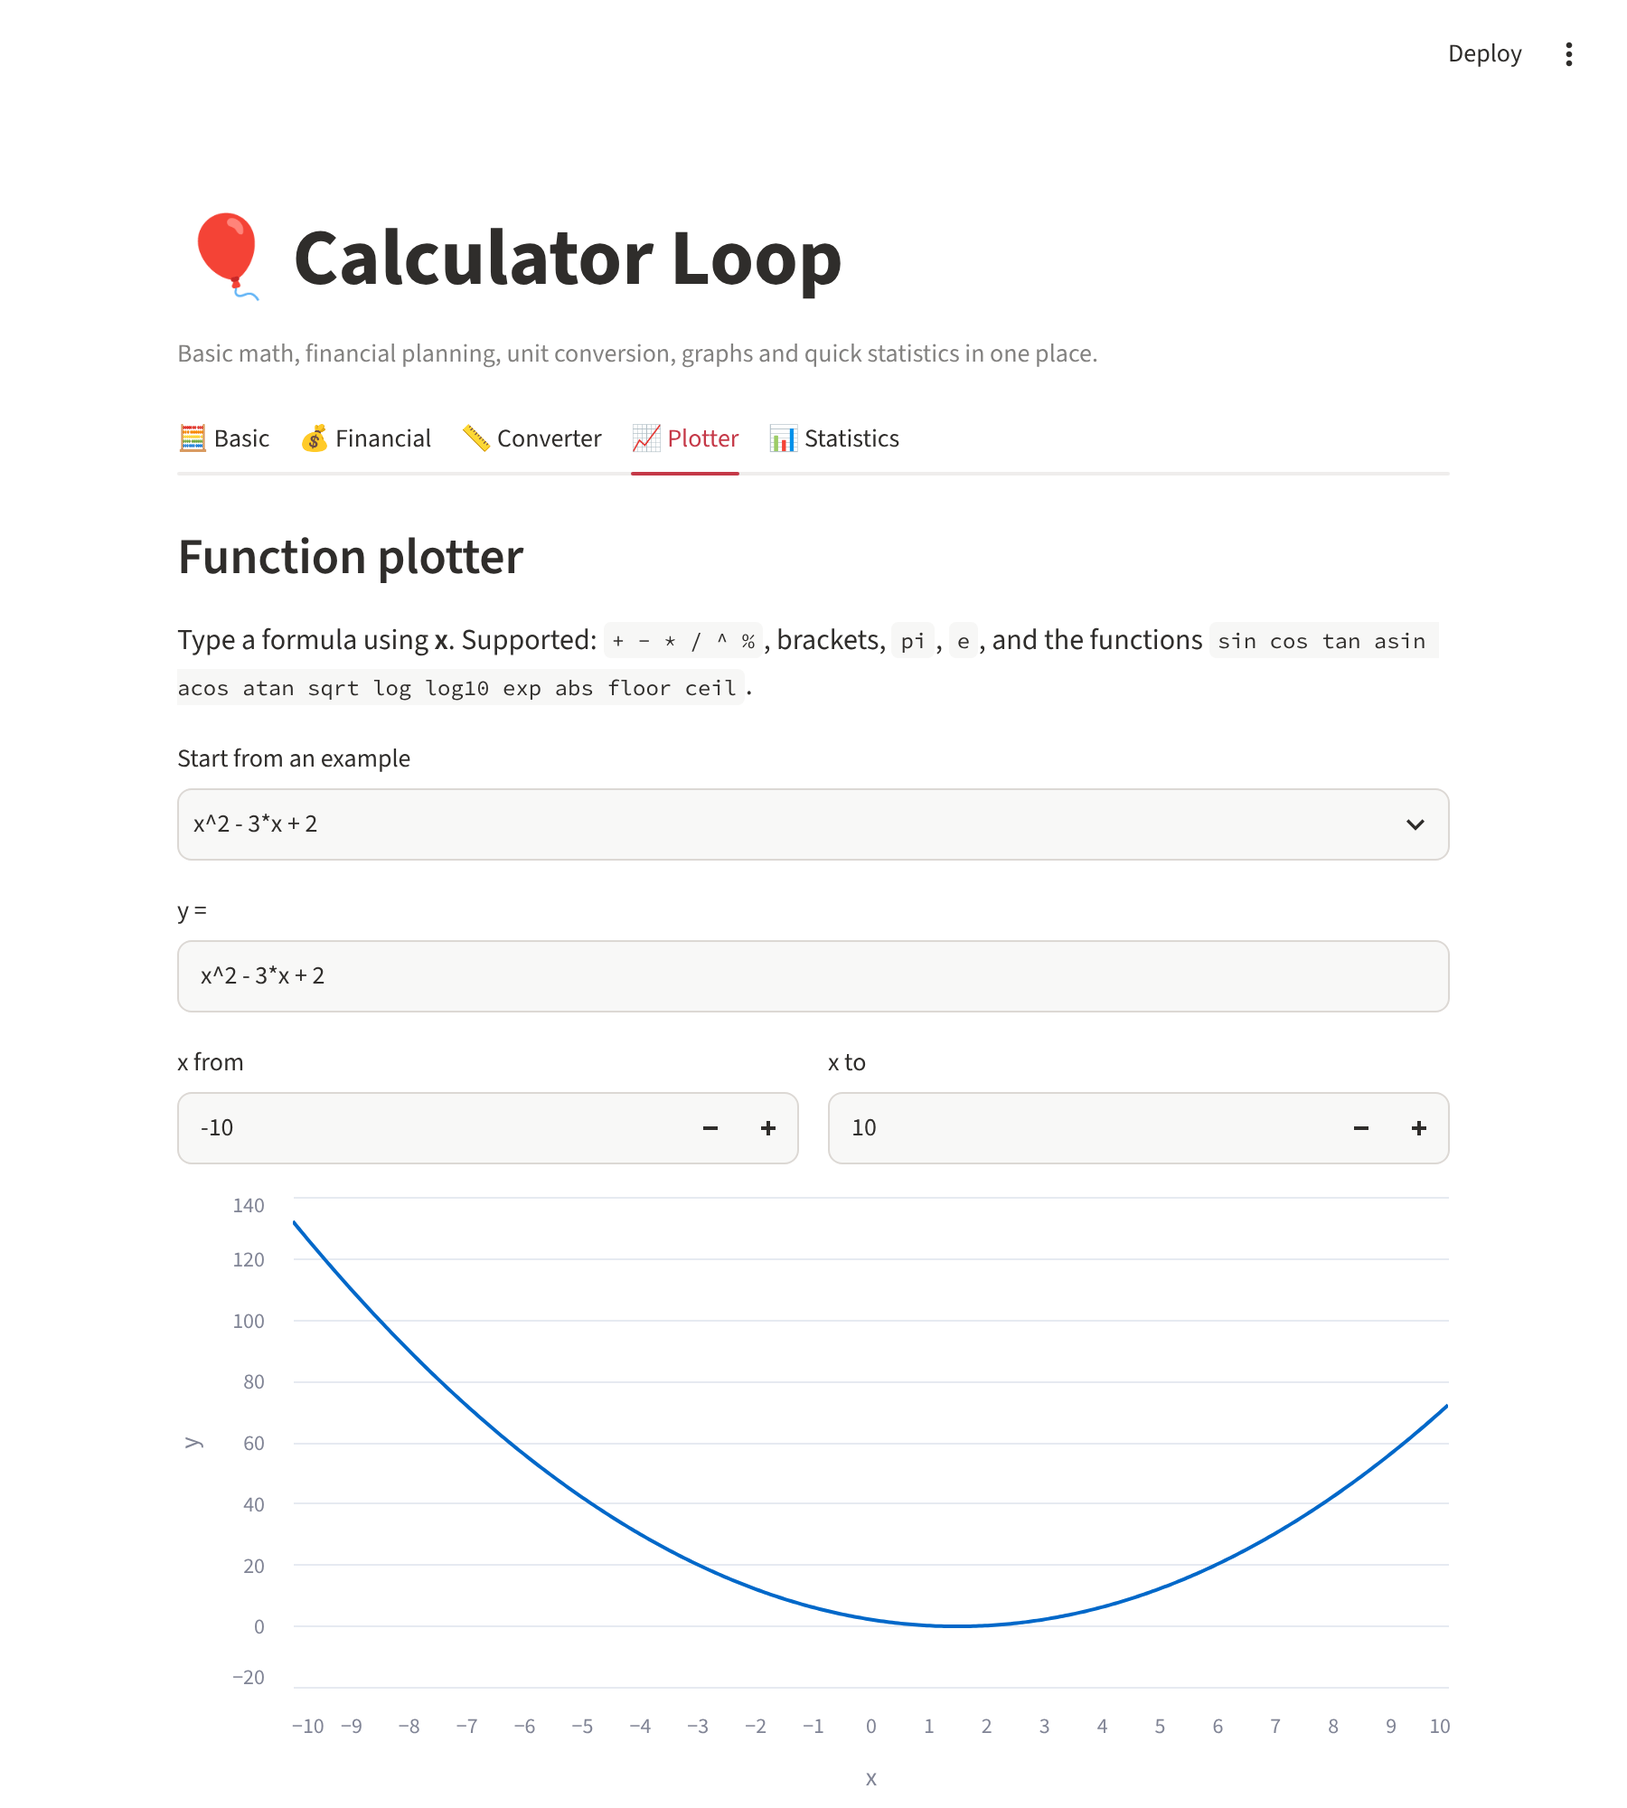
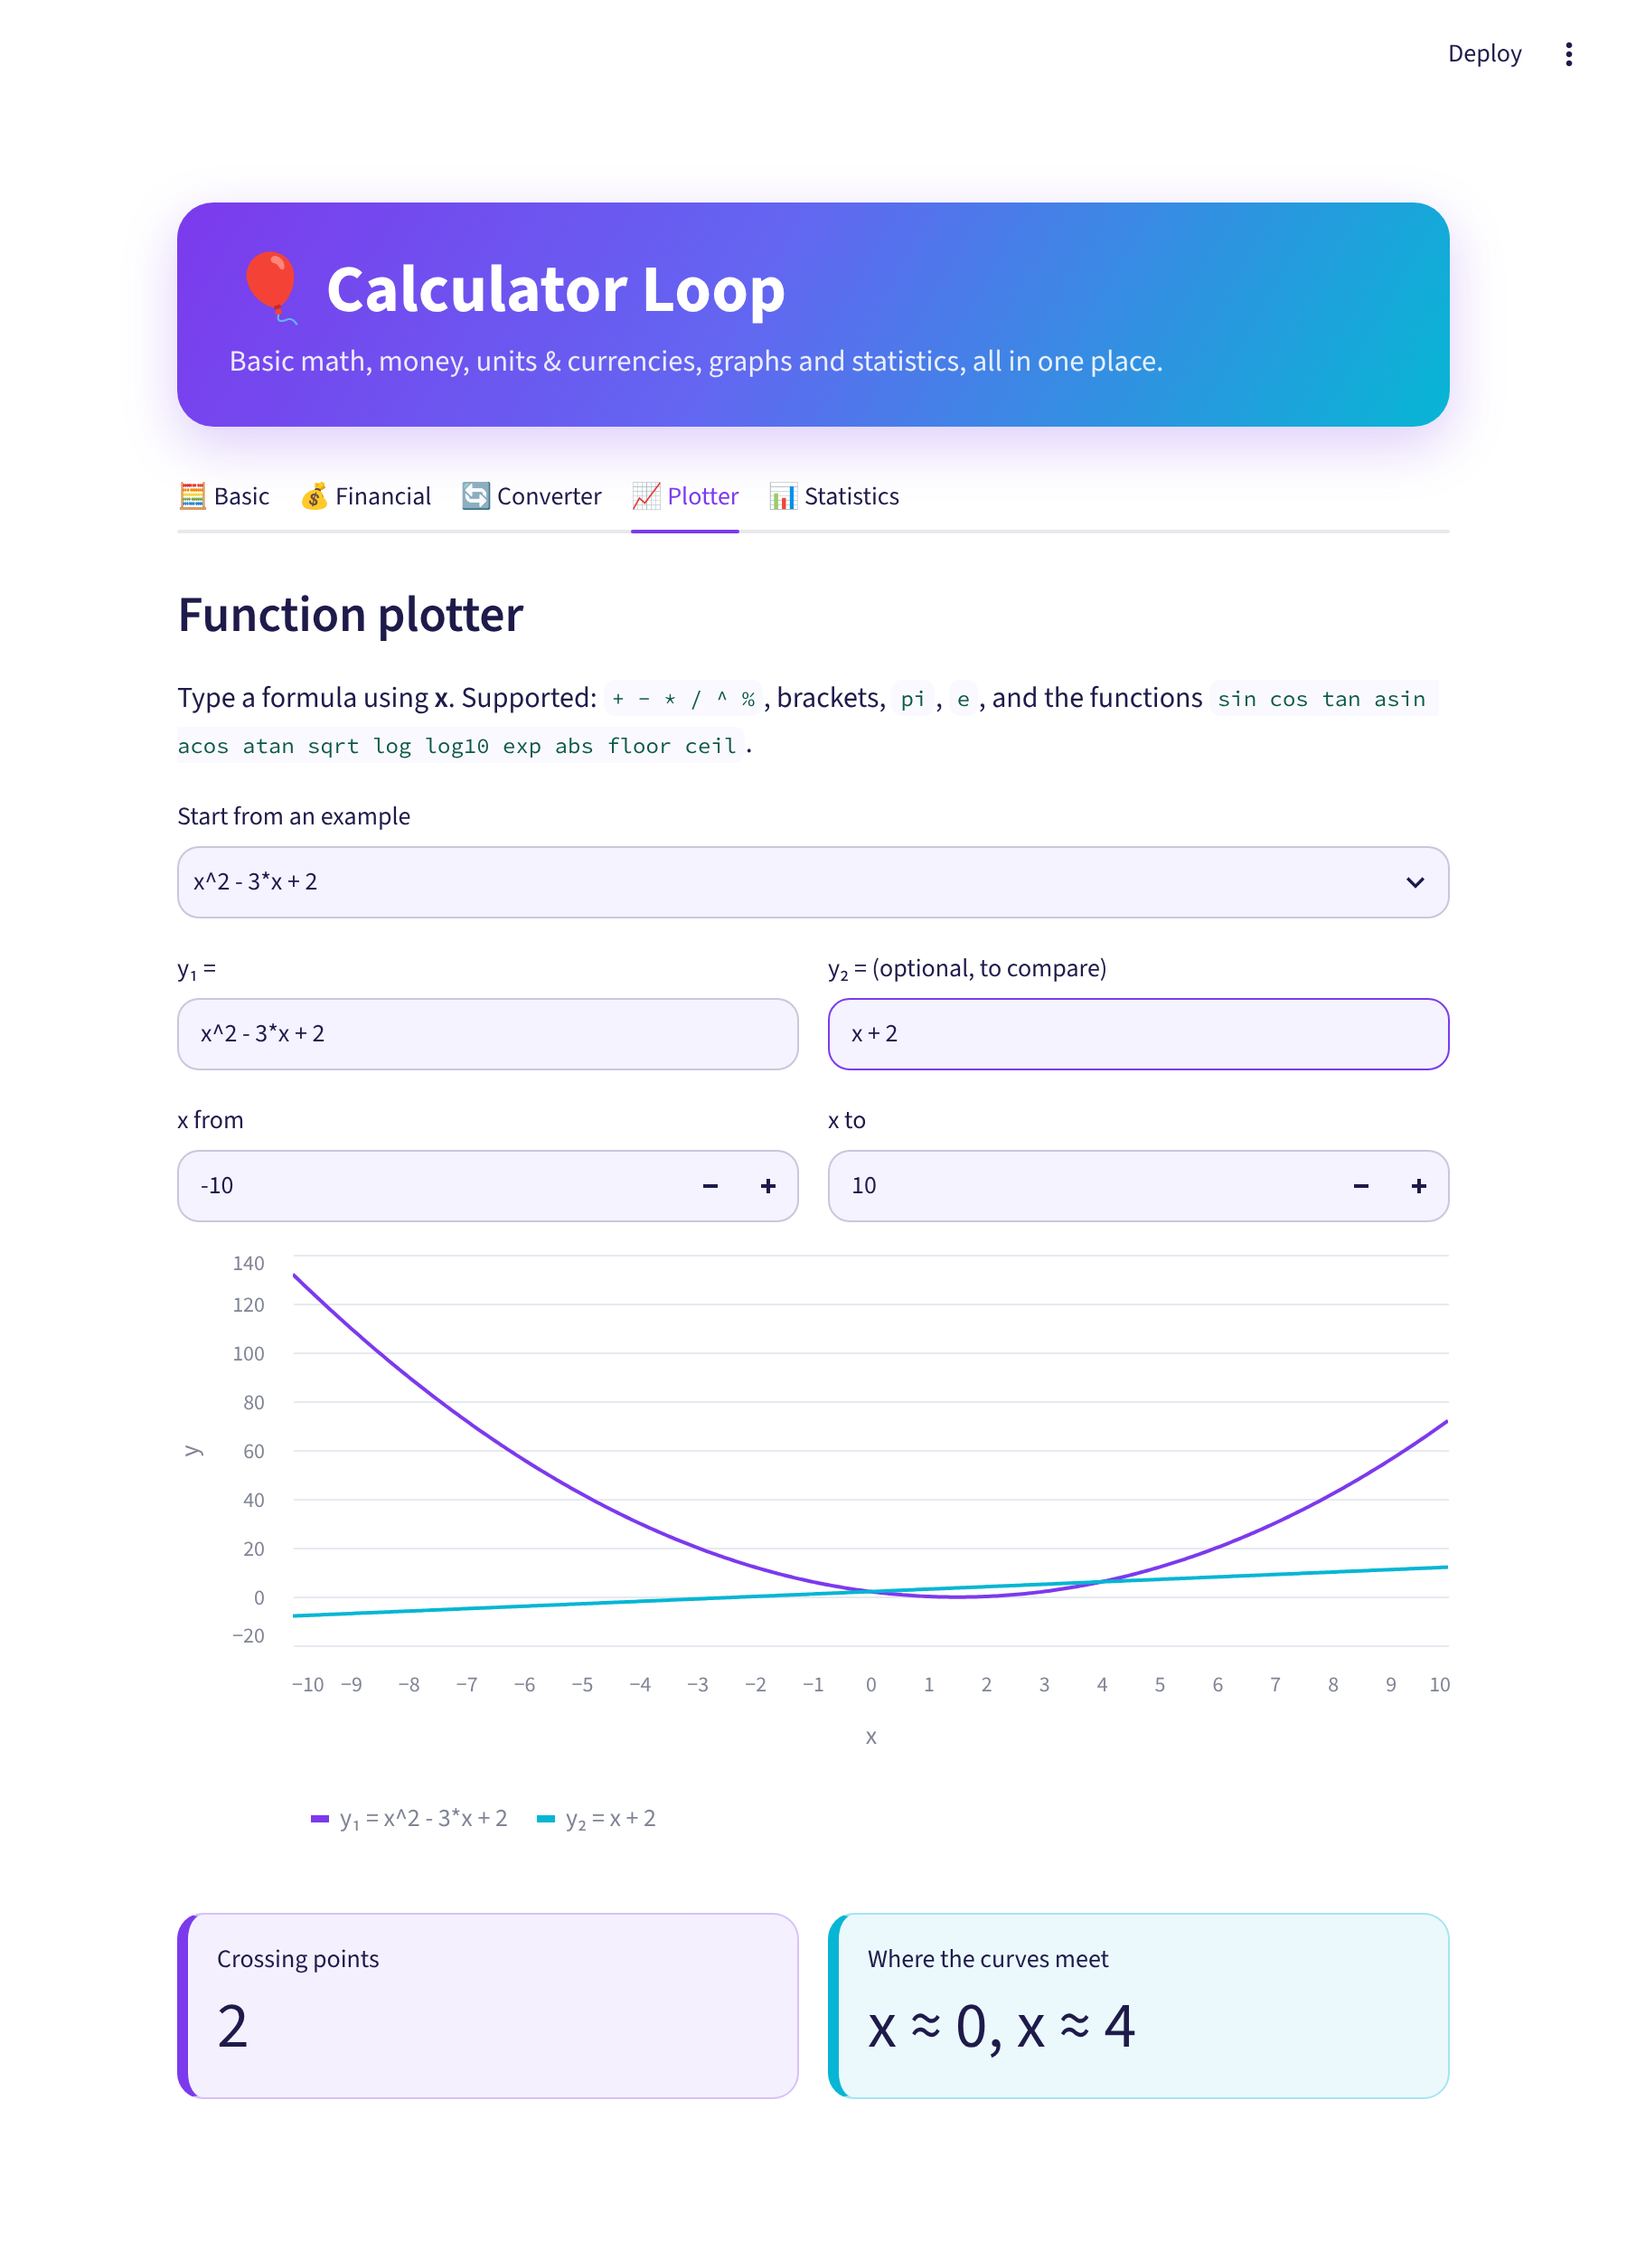
Update README and screenshots for the new features
Claude-Session: https://claude.ai/code/session_01Cxd5FnPmya3DyG1PnG7S7B

diff --git a/README.md b/README.md
@@ -10,30 +10,33 @@ An interactive **multi-tool calculator** built with **Python** and **Streamlit**
 
 The project started as a terminal calculator and grew into a small, tested web application with the calculation logic kept separate from the user interface.
 
-![Basic tab with calculation history](docs/screenshots/basic.png)
+![Keypad calculator with history](docs/screenshots/basic.png)
 
 ---
 
 ## ✨ Features
 
-The app is organized into five tabs.
+The app is organized into five colourful tabs and supports light and dark mode.
 
 ### 🧮 Basic
-- Operations: addition (+), subtraction (-), multiplication (×), division (÷), power (^), modulo (mod), percentage (A% of B) and square root (√)
-- Clear error messages for invalid operations (division by zero, square root of a negative number, overflow…)
-- **Calculation history** with a *Clear history* button and *Download as CSV*
+- **Keypad calculator:** click colourful keys or type expressions such as `(3 + 4) × 2^3` or `sqrt(144) + 2^10`, then press `=` or Enter
+- A calculator-style display; keep calculating from the last answer
+- **Two-number mode:** pick an operation (+, −, ×, ÷, power, modulo, percentage, square root)
+- Clear error messages (division by zero, square root of a negative number, decimal comma instead of dot…)
+- **Calculation history** with *Clear history* and *Download as CSV*
 
 ### 💰 Financial
 - **Compound interest:** initial amount, monthly contributions, annual rate, years and compounding frequency, with a stacked chart of contributions vs. interest
 - **Loan / mortgage:** monthly payment, total paid and total interest, with a principal-vs-interest chart and the remaining balance over time
 - Year-by-year tables for both
 
-### 📏 Converter
-- Length, weight, volume, speed, data size and temperature
-- Shows the value converted to every unit of the chosen type
+### 🔄 Converter
+- **Units:** length, weight, volume, speed, data size and temperature, with the value shown in every unit of the chosen type
+- **💱 Currency (live rates):** convert between 30+ currencies (BRL, USD, EUR, GBP…) using the European Central Bank reference rates from [Frankfurter](https://frankfurter.dev), with a swap button and a rate-history chart (1 month to 5 years)
 
 ### 📈 Plotter
 - Type a formula of `x` (e.g. `x^2 - 3*x + 2` or `sin(x) * exp(-x/5)`) and see its graph over any range
+- **Compare two formulas** on the same chart and see where the curves cross
 - Supports `+ - * / ^ %`, brackets, `pi`, `e` and common math functions (`sin`, `cos`, `sqrt`, `log`, `exp`, `abs`…)
 - Formulas are parsed safely: only math is allowed, so no arbitrary code can run
 
@@ -59,8 +62,10 @@ The app is organized into five tabs.
 ## 🧰 Tech Stack
 
 - **Python 3**
-- **Streamlit** – web interface and charts
+- **Streamlit** – web interface, theme and charts
 - **pandas** – tables, CSV handling and statistics
+- **Altair** – currency history chart
+- **requests** + **Frankfurter API** – live exchange rates (no API key needed)
 - **pytest** – automated tests
 - **ruff** – linting and formatting
 - **GitHub Actions** – runs the linter and tests on every push and pull request
@@ -70,8 +75,11 @@ The app is organized into five tabs.
 ```
 ├── streamlit_app.py          # User interface (tabs, inputs, charts)
 ├── calculator.py             # Calculation logic, independent from the UI
+├── currency.py               # Live exchange rates (Frankfurter API)
+├── .streamlit/config.toml    # Colour theme (light and dark)
 ├── tests/
 │   ├── test_calculator.py    # Unit tests for the calculation logic
+│   ├── test_currency.py      # Currency tests with simulated API responses
 │   └── test_app.py           # Runs the app headlessly and checks each tab
 ├── docs/screenshots/         # Images used in this README
 ├── requirements.txt          # Packages needed to run the app
